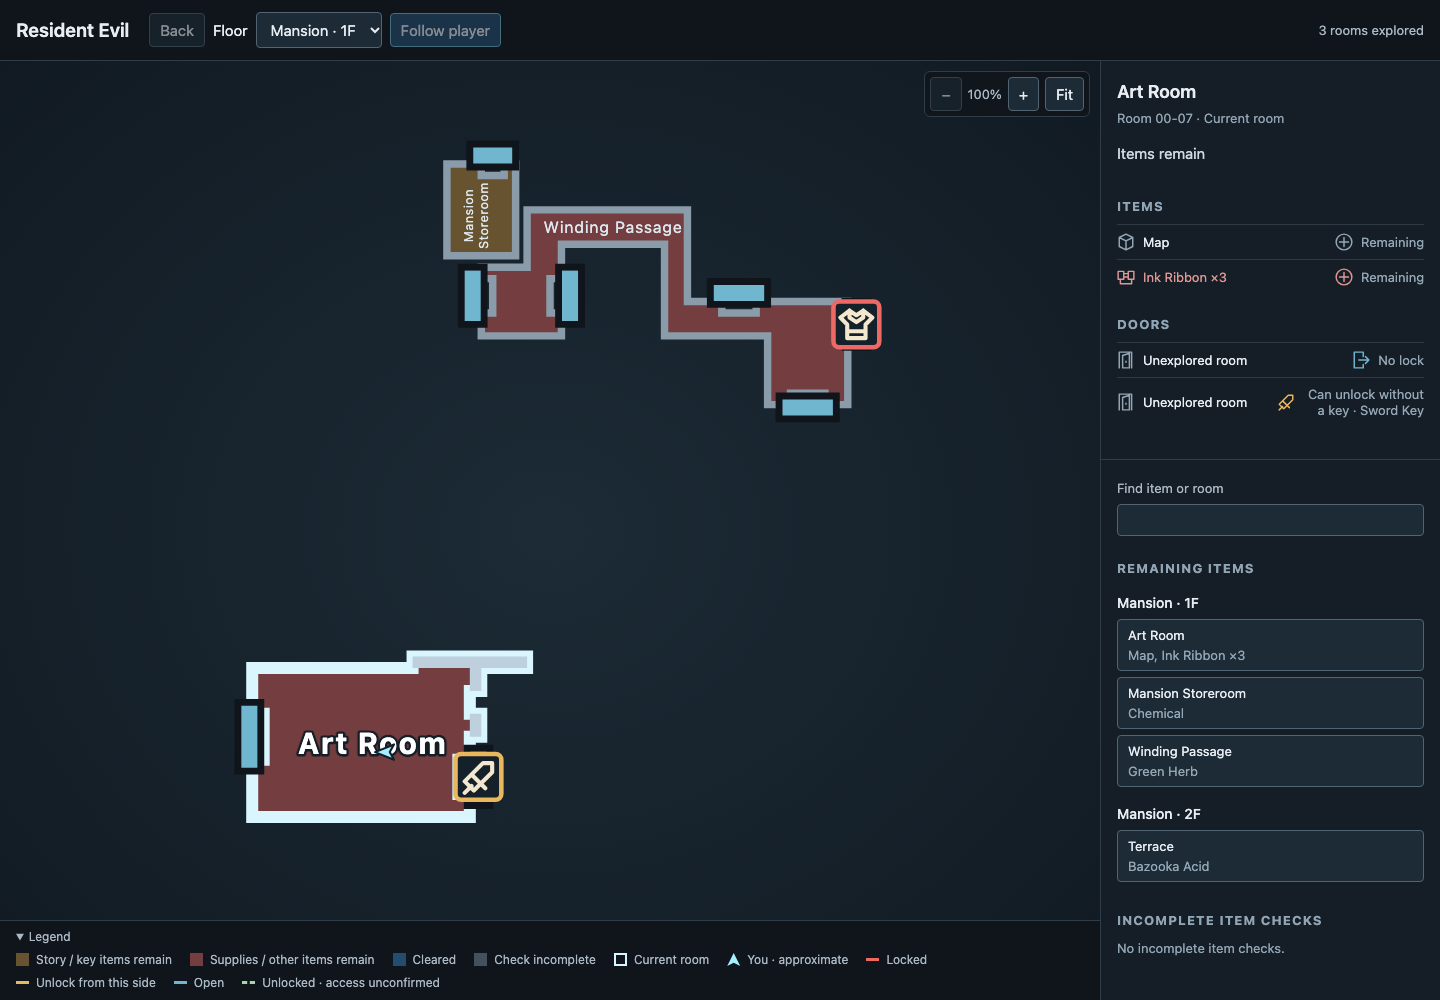
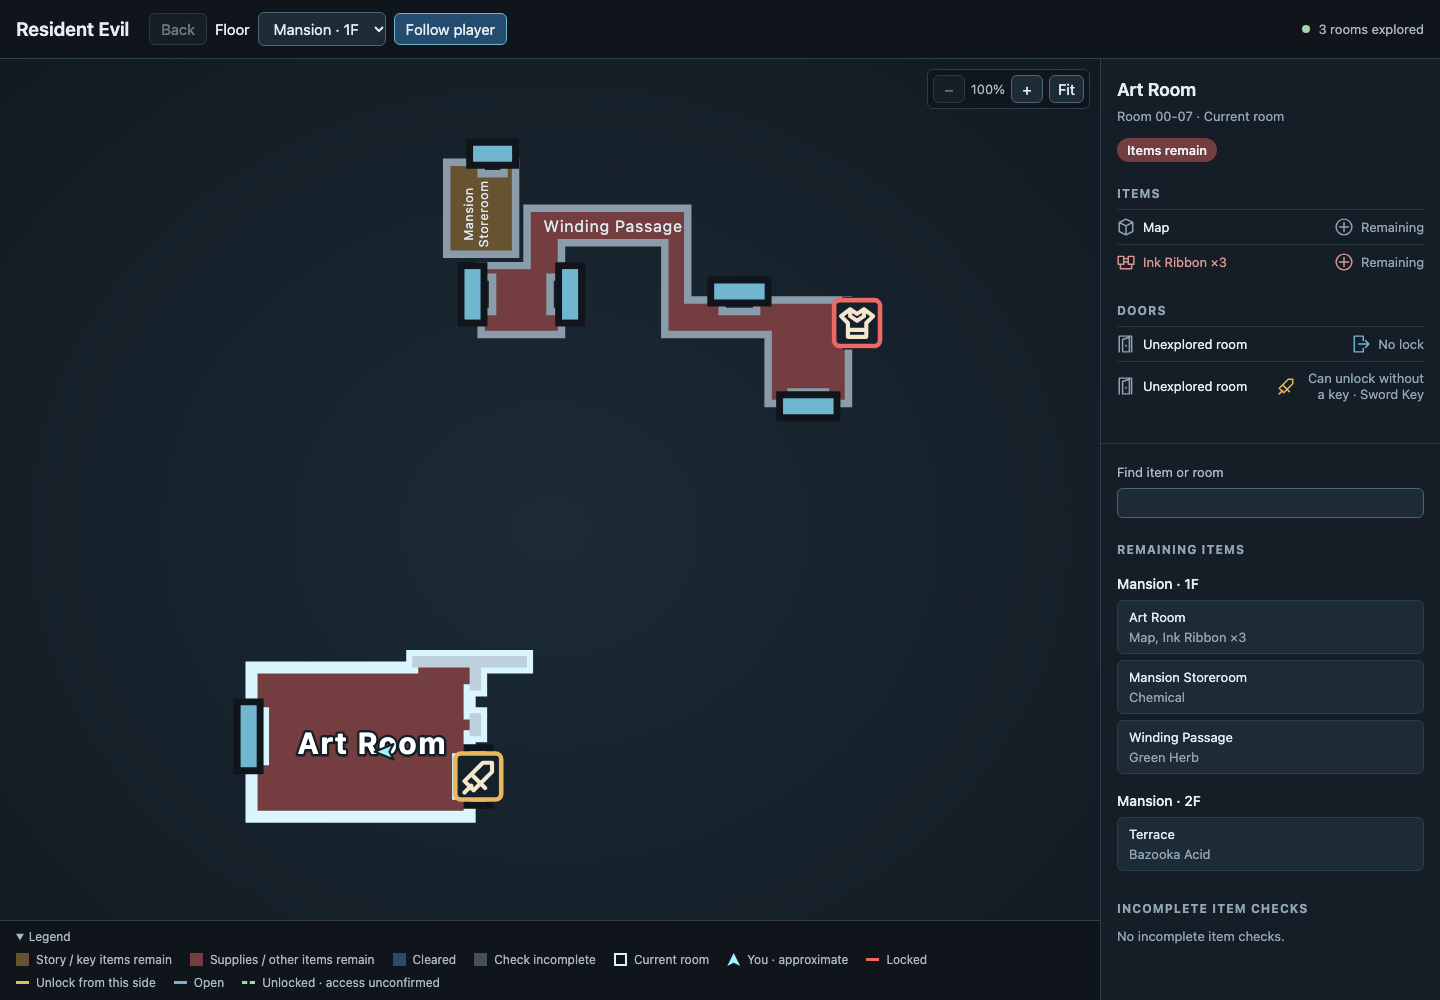
feat(ui): show tracking and room status at a glance
Colors become shared tokens. Controls gain hover and focus states, the
header status shows a live or paused dot, Follow player stays visibly
active, and room completion is a badge matching the room's map fill.

Author: claude-opus-5-5

diff --git a/src/ui/map_view.py b/src/ui/map_view.py
@@ -213,112 +213,126 @@ _PAGE = """<!doctype html>
 <meta name="map-instance" content="__INSTANCE_ID__">
 <title>__GAME_TITLE__ room map</title>
 <style>
-:root { color-scheme:dark; font:15px system-ui,sans-serif; background:#10151b; color:#e7edf2; }
+:root {
+  color-scheme:dark; font:15px system-ui,sans-serif; background:var(--bg); color:var(--text);
+  --bg:#10151b; --panel:#151e27; --line:#303d48; --line-soft:#2d3943; --text:#e7edf2; --muted:#91a5b4; --soft:#abb9c5; --control:#1c2b36; --control-line:#506473; --accent:#a5efff; --current:#d9f6ff; --open:#71b6cf; --locked:#ed6965; --unlockable:#e9b85e; --unlocked:#a5d5ac; --story-fill:#685331; --supplies-fill:#743e40; --cleared-fill:#244c6e; --unknown-fill:#42515d; --story:#e9be72; --supplies:#df9793;
+}
 body { margin:0; }
-header { padding:12px 16px; display:flex; align-items:center; flex-wrap:wrap; gap:10px 20px; border-bottom:1px solid #303d48; }
+header { padding:12px 16px; display:flex; align-items:center; flex-wrap:wrap; gap:10px 20px; border-bottom:1px solid var(--line); }
 h1 { margin:0; font-size:19px; font-weight:600; }
 #map-controls { display:flex; align-items:center; flex-wrap:wrap; gap:8px; }
 /* Map controls float above the map so the floor plan keeps the full height. */
-#zoom-controls { position:absolute; top:10px; right:10px; z-index:1; display:flex; align-items:center; gap:6px; padding:5px; background:rgba(16,21,27,.86); border:1px solid #303d48; border-radius:6px; }
-select,button,input { font:inherit; color:inherit; background:#1c2b36; border:1px solid #506473; border-radius:4px; padding:7px 10px; }
-select:disabled,button:disabled,input:disabled { opacity:.55; }
-#current-room[aria-pressed="true"] { border-color:#71b6cf; background:#244c6e; }
-#status { margin-left:auto; color:#abb9c5; font-size:13px; }
-main { display:grid; grid-template-columns:minmax(0,1fr); background:#151e27; }
-#map-shell { position:relative; min-width:0; background:radial-gradient(ellipse at center,#1c2b36,#111a22); }
+#zoom-controls { position:absolute; top:10px; right:10px; z-index:1; display:flex; align-items:center; gap:6px; padding:5px; background:rgba(16,21,27,.86); border:1px solid var(--line); border-radius:6px; }
+select,button,input { font:inherit; color:inherit; background:var(--control); border:1px solid var(--control-line); border-radius:6px; padding:6px 11px; transition:background-color .12s,border-color .12s; }
+button,select { cursor:pointer; }
+:is(select,button):not(:disabled):hover { background:#243744; border-color:#6d8495; }
+:is(select,button,input):focus-visible { outline:2px solid var(--accent); outline-offset:1px; }
+select:disabled,button:disabled,input:disabled { opacity:.45; cursor:default; }
+/* Following disables the button until the view changes; keep that active state legible. */
+#current-room[aria-pressed="true"] { border-color:var(--open); background:var(--cleared-fill); opacity:1; }
+#zoom-controls button { min-width:32px; padding:4px 8px; }
+#status { margin-left:auto; display:flex; align-items:center; gap:8px; color:var(--soft); font-size:13px; }
+#status::before { content:""; flex:none; width:8px; height:8px; border-radius:50%; background:var(--unlockable); }
+#status[data-state="live"]::before { background:var(--unlocked); }
+main { display:grid; grid-template-columns:minmax(0,1fr); background:var(--panel); }
+#map-shell { position:relative; min-width:0; background:radial-gradient(ellipse at center,var(--control),#111a22); }
 #map { display:block; width:100%; height:60vh; min-height:340px; }
 #map { user-select:none; }
-#map:focus-visible { outline:2px solid #d9f6ff; outline-offset:-2px; }
+#map:focus-visible { outline:2px solid var(--current); outline-offset:-2px; }
 #map.navigable { cursor:grab; touch-action:none; }
 #map.panning,#map.panning .room { cursor:grabbing; }
-#zoom-level { min-width:4ch; text-align:center; font-size:13px; color:#abb9c5; }
+#zoom-level { min-width:4ch; text-align:center; font-size:13px; color:var(--soft); }
 .room { cursor:pointer; }
 .room[aria-disabled="true"] { cursor:default; }
-.room path { stroke:#8a9ca9; stroke-width:.65; fill:#42515d; stroke-linejoin:miter; }
-.room.INCOMPLETE path { fill:#743e40; }
-.room.INCOMPLETE.story-items > path:first-child { fill:#685331; }
-.room.CLEARED path { fill:#244c6e; }
+.room path { stroke:#8a9ca9; stroke-width:.65; fill:var(--unknown-fill); stroke-linejoin:miter; }
+.room.INCOMPLETE path { fill:var(--supplies-fill); }
+.room.INCOMPLETE.story-items > path:first-child { fill:var(--story-fill); }
+.room.CLEARED path { fill:var(--cleared-fill); }
 /* Unresolved rooms keep the neutral fill explicitly so a future default
 cannot merge them with a decided state. */
-.room.UNKNOWN path { fill:#42515d; }
-.room.current path { stroke:#d9f6ff; stroke-width:1.05; }
+.room.UNKNOWN path { fill:var(--unknown-fill); }
+.room.current path { stroke:var(--current); stroke-width:1.05; }
 .room.selected:not(.current) > path:first-child { stroke:#f0cf8c; }
 /* Native SVG focus rings can cover nearby doors. Highlight the room wall instead. */
 .room:focus-visible { outline:none; }
 .room:focus-visible > path:first-child { stroke-width:1.35; }
-.room:focus-visible:not(.current) > path:first-child { stroke:#a5efff; }
+.room:focus-visible:not(.current) > path:first-child { stroke:var(--accent); }
 .room text { fill:#dce7ee; font:2.6px system-ui,sans-serif; pointer-events:none; text-anchor:middle; }
 .room.current text { font-weight:700; fill:#fff; }
 .room path.map-detail { fill:none; stroke:#bed0dd; stroke-width:1; stroke-linecap:square; pointer-events:none; }
 .room path.map-detail-border { stroke:#8a9ca9; stroke-width:1.4; }
 .room path.map-detail-core { stroke:#17232d; }
-.room .map-detail+text { paint-order:stroke; stroke:#151e27; stroke-width:.5; stroke-linejoin:round; }
+.room .map-detail+text { paint-order:stroke; stroke:var(--panel); stroke-width:.5; stroke-linejoin:round; }
 .player { pointer-events:none; }
-.player path { fill:#a5efff; stroke:#10202b; stroke-width:.6; stroke-linejoin:round; }
-.key.player-key { background:#a5efff; clip-path:polygon(50% 0,100% 100%,50% 75%,0 100%); }
+.player path { fill:var(--accent); stroke:#10202b; stroke-width:.6; stroke-linejoin:round; }
+.key.player-key { background:var(--accent); clip-path:polygon(50% 0,100% 100%,50% 75%,0 100%); }
 .door :is(line,polyline) { stroke-width:1.4; stroke-linecap:square; }
-.door.OPEN :is(line,polyline) { stroke:#71b6cf; }
-.door.LOCKED :is(line,polyline),.door.BLOCKED :is(line,polyline) { stroke:#ed6965; }
-.door.UNLOCKABLE :is(line,polyline) { stroke:#e9b85e; }
+.door.OPEN :is(line,polyline) { stroke:var(--open); }
+.door.LOCKED :is(line,polyline),.door.BLOCKED :is(line,polyline) { stroke:var(--locked); }
+.door.UNLOCKABLE :is(line,polyline) { stroke:var(--unlockable); }
 .door.UNCHECKED :is(line,polyline) { stroke:#d0d9de; }
-.door.UNCHECKED.unlocked :is(line,polyline):not(.door-border) { stroke:#a5d5ac; stroke-dasharray:1.5 1; }
+.door.UNCHECKED.unlocked :is(line,polyline):not(.door-border) { stroke:var(--unlocked); stroke-dasharray:1.5 1; }
 /* RE2 doors sit directly on walls, so a dark border keeps access colors
 distinct from room outlines and fills. */
-.door :is(line,polyline).door-border { stroke:#10151b; stroke-width:2.6; }
+.door :is(line,polyline).door-border { stroke:var(--bg); stroke-width:2.6; }
 .door title { pointer-events:none; }
 .key-symbol { pointer-events:all; }
 .key-symbol rect { fill:#14202a; stroke-width:.4; }
 .key-symbol path { fill:none; stroke:#f3e7cd; stroke-width:1.8; stroke-linecap:round; stroke-linejoin:round; }
-.door.OPEN .key-symbol rect { stroke:#71b6cf; }
-.door.LOCKED .key-symbol rect,.door.BLOCKED .key-symbol rect { stroke:#ed6965; }
-.door.UNLOCKABLE .key-symbol rect { stroke:#e9b85e; }
+.door.OPEN .key-symbol rect { stroke:var(--open); }
+.door.LOCKED .key-symbol rect,.door.BLOCKED .key-symbol rect { stroke:var(--locked); }
+.door.UNLOCKABLE .key-symbol rect { stroke:var(--unlockable); }
 .unlock-symbol { pointer-events:all; }
-.unlock-symbol rect { fill:#14202a; stroke:#a5d5ac; stroke-width:.4; }
-.unlock-symbol path { fill:none; stroke:#a5d5ac; stroke-width:1.8; stroke-linecap:round; stroke-linejoin:round; }
+.unlock-symbol rect { fill:#14202a; stroke:var(--unlocked); stroke-width:.4; }
+.unlock-symbol path { fill:none; stroke:var(--unlocked); stroke-width:1.8; stroke-linecap:round; stroke-linejoin:round; }
 /* The badge covers the door bar, so its frame must retain access status. */
 .door.UNCHECKED .unlock-symbol rect { stroke-dasharray:.9 .6; }
-.door.BLOCKED .unlock-symbol rect { stroke:#ed6965; }
-.door.OPEN .unlock-symbol rect { stroke:#71b6cf; }
-aside { border-top:1px solid #303d48; }
+.door.BLOCKED .unlock-symbol rect { stroke:var(--locked); }
+.door.OPEN .unlock-symbol rect { stroke:var(--open); }
+aside { border-top:1px solid var(--line); }
 #room-details { padding:20px 16px; }
 /* Focus recovery scrolls details into view; keep them clear of the viewport edge. */
 #room-name { font-size:18px; font-weight:600; margin:0 0 8px; scroll-margin:16px; }
-#room-id { color:#91a5b4; font-size:13px; margin-bottom:18px; }
-#completion { padding-bottom:14px; color:#ced9e1; }
-h2 { font-size:13px; text-transform:uppercase; letter-spacing:.09em; color:#91a5b4; margin:22px 0 10px; }
+#room-id { color:var(--muted); font-size:13px; margin-bottom:14px; }
+/* The badge repeats the room's map fill so details and outline read as one state. */
+#completion { display:inline-block; padding:4px 10px; border-radius:999px; font-size:13px; font-weight:500; color:#eef3f6; background:var(--unknown-fill); }
+#completion[data-state="INCOMPLETE"] { background:var(--supplies-fill); }
+#completion[data-state="INCOMPLETE"][data-story-items] { background:var(--story-fill); }
+#completion[data-state="CLEARED"] { background:var(--cleared-fill); }
+h2 { font-size:12px; text-transform:uppercase; letter-spacing:.09em; color:var(--muted); margin:24px 0 8px; }
 ul { list-style:none; margin:0; padding:0; }
-li { padding:8px 0; border-top:1px solid #2d3943; display:flex; gap:10px; justify-content:space-between; font-size:13px; }
-li > span:last-child { color:#94a7b6; text-align:right; }
+li { padding:8px 0; border-top:1px solid var(--line-soft); display:flex; gap:10px; justify-content:space-between; font-size:13px; }
+li > span:last-child { color:var(--muted); text-align:right; }
 .entry-name,.entry-status { display:flex; align-items:center; gap:8px; min-width:0; }
 .entry-status { justify-content:flex-end; max-width:48%; flex-shrink:0; }
 .door-room-link { padding:0; border:0; background:none; text-align:left; cursor:pointer; text-decoration:underline; text-underline-offset:3px; }
-.door-room-link:hover,.door-room-link:focus-visible { color:#a5efff; }
+.door-room-link:hover,.door-room-link:focus-visible { color:var(--accent); }
 .list-symbol { display:block; flex:none; width:18px; height:18px; overflow:visible; fill:none; stroke:currentColor; stroke-width:1.3; stroke-linecap:round; stroke-linejoin:round; }
-.entry-name.story,.list-symbol.story { color:#e9be72; }
-.entry-name.supplies,.list-symbol.supplies { color:#df9793; }
-.list-symbol.neutral { color:#94a7b6; }
-.list-symbol.collected,.list-symbol.open { color:#71b6cf; }
-.list-symbol.locked,.list-symbol.blocked { color:#ed6965; }
-.list-symbol.unlockable { color:#e9b85e; }
-.list-symbol.unlocked { color:#a5d5ac; }
-#legend { color:#abb9c5; font-size:13px; border-top:1px solid #303d48; background:#10151b; }
+.entry-name.story,.list-symbol.story { color:var(--story); }
+.entry-name.supplies,.list-symbol.supplies { color:var(--supplies); }
+.list-symbol.neutral { color:var(--muted); }
+.list-symbol.collected,.list-symbol.open { color:var(--open); }
+.list-symbol.locked,.list-symbol.blocked { color:var(--locked); }
+.list-symbol.unlockable { color:var(--unlockable); }
+.list-symbol.unlocked { color:var(--unlocked); }
+#legend { color:var(--soft); font-size:13px; border-top:1px solid var(--line); background:var(--bg); }
 #legend summary { padding:10px 16px; cursor:pointer; }
 #legend-entries { display:flex; flex-wrap:wrap; gap:10px 20px; padding:0 16px 14px; }
 .key { display:inline-block; width:13px; height:13px; margin-right:7px; vertical-align:-2px; }
 .key.door-key { height:3px; vertical-align:3px; }
-.key.unlocked-key { height:0; border-top:3px dashed #a5d5ac; }
-#note { color:#91a5b4; font-size:13px; line-height:1.5; }
-#overview { display:flex; flex-direction:column; gap:24px; padding:20px 16px; border-top:1px solid #303d48; }
-#item-search-label { display:flex; flex-direction:column; gap:8px; font-size:13px; color:#abb9c5; }
+.key.unlocked-key { height:0; border-top:3px dashed var(--unlocked); }
+#note { color:var(--muted); font-size:13px; line-height:1.5; }
+#overview { display:flex; flex-direction:column; gap:24px; padding:20px 16px; border-top:1px solid var(--line); }
+#item-search-label { display:flex; flex-direction:column; gap:8px; font-size:13px; color:var(--soft); }
 #item-search { box-sizing:border-box; width:100%; }
 #overview h2 { margin:0 0 12px; }
 #overview h3 { margin:18px 0 8px; font-size:14px; font-weight:500; }
-#overview p { margin:0; font-size:13px; color:#91a5b4; }
+#overview p { margin:0; font-size:13px; color:var(--muted); }
 #overview li { padding:0; border:0; margin-bottom:6px; }
-.room-link { display:block; width:100%; text-align:left; cursor:pointer; }
-.room-link:hover,.room-link:focus-visible { border-color:#d9f6ff; }
+.room-link { display:block; width:100%; text-align:left; cursor:pointer; padding:8px 11px; border-color:var(--line); }
+.room-link:hover,.room-link:focus-visible { border-color:var(--current); }
 #overview .room-link span { display:block; text-align:left; color:inherit; }
-#overview .room-link span+span { margin-top:4px; color:#94a7b6; }
+#overview .room-link span+span { margin-top:4px; color:var(--muted); }
 /* Wide windows keep the map and sidebar on screen together during play;
 the sidebar scrolls on its own instead of the page. */
 @media(min-width:761px) and (min-height:560px) {
@@ -327,7 +341,7 @@ the sidebar scrolls on its own instead of the page. */
   /* The legend stays below the floor plan so it never covers explored rooms. */
   #map-shell { display:flex; flex-direction:column; }
   #map { flex:1; height:auto; min-height:0; }
-  aside { border-top:0; border-left:1px solid #303d48; overflow-y:auto; }
+  aside { border-top:0; border-left:1px solid var(--line); overflow-y:auto; }
   #legend { font-size:12px; }
   #legend summary { padding:8px 16px; }
   #legend-entries { gap:8px 18px; padding:0 16px 10px; }
@@ -336,21 +350,21 @@ the sidebar scrolls on its own instead of the page. */
 </style>
 </head>
 <body>
-<header><h1>__GAME_TITLE__</h1><nav id="map-controls" aria-label="Map controls"><button id="back-room" type="button" aria-label="Back to previous room" disabled>Back</button><label for="floor">Floor</label><select id="floor" disabled></select><button id="current-room" type="button" aria-pressed="false" disabled>Follow player</button></nav><div id="status" role="status">Waiting for game.</div></header>
+<header><h1>__GAME_TITLE__</h1><nav id="map-controls" aria-label="Map controls"><button id="back-room" type="button" aria-label="Back to previous room" disabled>Back</button><label for="floor">Floor</label><select id="floor" disabled></select><button id="current-room" type="button" aria-pressed="false" disabled>Follow player</button></nav><div id="status" role="status" data-state="paused">Waiting for game.</div></header>
 <main>
 <div id="map-shell">
 <div id="zoom-controls" role="group" aria-label="Map zoom"><button id="zoom-out" type="button" aria-label="Zoom out" disabled>−</button><output id="zoom-level" aria-label="Zoom level"></output><button id="zoom-in" type="button" aria-label="Zoom in" disabled>+</button><button id="fit-rooms" type="button" aria-label="Fit explored rooms" title="Fit explored rooms" disabled>Fit</button></div>
 <svg id="map" role="group" tabindex="-1" aria-label="Explored rooms" aria-description="Arrow keys move the map. Plus and minus zoom. Zero fits explored rooms. You can also drag, pinch or use the mouse wheel."></svg>
 <details id="legend" open><summary>Legend</summary><div id="legend-entries">
-<span><i class="key" style="background:#685331"></i>Story / key items remain</span>
-<span><i class="key" style="background:#743e40"></i>Supplies / other items remain</span>
-<span><i class="key" style="background:#244c6e"></i>Cleared</span>
-<span><i class="key" style="background:#42515d"></i>Check incomplete</span>
-<span><i class="key" style="border:2px solid #d9f6ff;box-sizing:border-box"></i>Current room</span>
+<span><i class="key" style="background:var(--story-fill)"></i>Story / key items remain</span>
+<span><i class="key" style="background:var(--supplies-fill)"></i>Supplies / other items remain</span>
+<span><i class="key" style="background:var(--cleared-fill)"></i>Cleared</span>
+<span><i class="key" style="background:var(--unknown-fill)"></i>Check incomplete</span>
+<span><i class="key" style="border:2px solid var(--current);box-sizing:border-box"></i>Current room</span>
 <span><i class="key player-key"></i><span id="player-label">You</span></span>
-<span><i class="key door-key" style="background:#ed6965"></i>Locked</span>
-<span><i class="key door-key" style="background:#e9b85e"></i>Unlock from this side</span>
-<span><i class="key door-key" style="background:#71b6cf"></i>Open</span>
+<span><i class="key door-key" style="background:var(--locked)"></i>Locked</span>
+<span><i class="key door-key" style="background:var(--unlockable)"></i>Unlock from this side</span>
+<span><i class="key door-key" style="background:var(--open)"></i>Open</span>
 <span><i class="key door-key unlocked-key"></i>Unlocked · access unconfirmed</span>
 </div></details>
 </div>
@@ -724,6 +738,9 @@ function itemVisual(label) {
   // story. Keep it neutral instead of classifying every unknown as a key item.
   return itemVisuals.get(label) || {category:'neutral',symbol:'collectible'};
 }
+function hasStoryItems(visit) {
+  return visit.items.some(item=>itemRemains(item) && itemVisual(item.label).category==='story');
+}
 function itemLabel(item) {
   // Omit the usual single unit and never turn an unresolved amount into a count.
   // Native amounts can encode weapon resources or key uses rather than object counts.
@@ -773,6 +790,7 @@ function draw(state) {
     endPan();
     applyViewport();
     status.textContent=state.error || 'Waiting for a readable game.';
+    status.dataset.state='paused';
     const interruptedMessage='Tracking interrupted';
     // Retain visit geometry; completion colors need a fresh game read after a load or reconnect.
     svg.querySelectorAll('.room').forEach(room=>{
@@ -785,6 +803,8 @@ function draw(state) {
     svg.querySelectorAll('.door,.player').forEach(marker=>marker.remove());
     document.getElementById('room-id').textContent=document.getElementById('room-id').textContent.replace(' · Current room','');
     document.getElementById('completion').textContent=interruptedMessage;
+    document.getElementById('completion').dataset.state='UNKNOWN';
+    delete document.getElementById('completion').dataset.storyItems;
     document.getElementById('items').replaceChildren();
     document.getElementById('doors').replaceChildren();
     document.getElementById('note').textContent='';
@@ -847,13 +867,14 @@ function draw(state) {
   const currentId=showingCurrentFloor ? state.map_region : null;
   const picked=selected && visible.has(selected) ? selected : showingCurrentFloor ? currentId : visible.keys().next().value;
   status.textContent=plan ? visible.size+' '+(visible.size===1?'room':'rooms')+' explored' : state.map_error;
+  status.dataset.state='live';
   if(plan && showingCurrentFloor && !byId.has(currentId)) status.textContent+=' · This room has no outline on the game map.';
   document.getElementById('player-label').textContent=state.player_position.kind==='approximate' ? 'You · approximate' : 'You · room only';
   const completion={INCOMPLETE:'Items remain',CLEARED:'Cleared',UNKNOWN:'Item check incomplete',VISITED:'Visited'};
   for(const [id,visit] of visible) {
     const room=byId.get(id);
     if(!Object.hasOwn(completion,visit.state)) throw new Error('Unknown room completion: '+visit.state);
-    const storyItems=visit.items.some(item=>itemRemains(item) && itemVisual(item.label).category==='story');
+    const storyItems=hasStoryItems(visit);
     const group=element('g',{class:'room '+visit.state+(storyItems?' story-items':'')+(id===currentId?' current':'')+(id===picked?' selected':''),role:'button',tabindex:0,'aria-label':room.name,'data-region':id});
     const path=room.rings.map(ring=>'M'+ring.map(point=>point.join(',')).join('L')+'Z').join('');
     group.append(element('path',{d:path,'fill-rule':'evenodd'}));
@@ -1068,7 +1089,10 @@ function draw(state) {
   if(!visit) throw new Error('Explored floor has no selected room');
   document.getElementById('room-name').textContent=roomName(displayedArea,visit);
   document.getElementById('room-id').textContent='Room '+visit.room+(showingCurrentFloor && picked===currentId?' · Current room':'');
-  document.getElementById('completion').textContent=completion[visit.state];
+  const completionBadge=document.getElementById('completion');
+  completionBadge.textContent=completion[visit.state];
+  completionBadge.dataset.state=visit.state;
+  completionBadge.toggleAttribute('data-story-items',hasStoryItems(visit));
   const items=document.getElementById('items');items.replaceChildren();
   for(const item of visit.items) {
     const row=document.createElement('li'), name=document.createElement('span'), detail=document.createElement('span');
